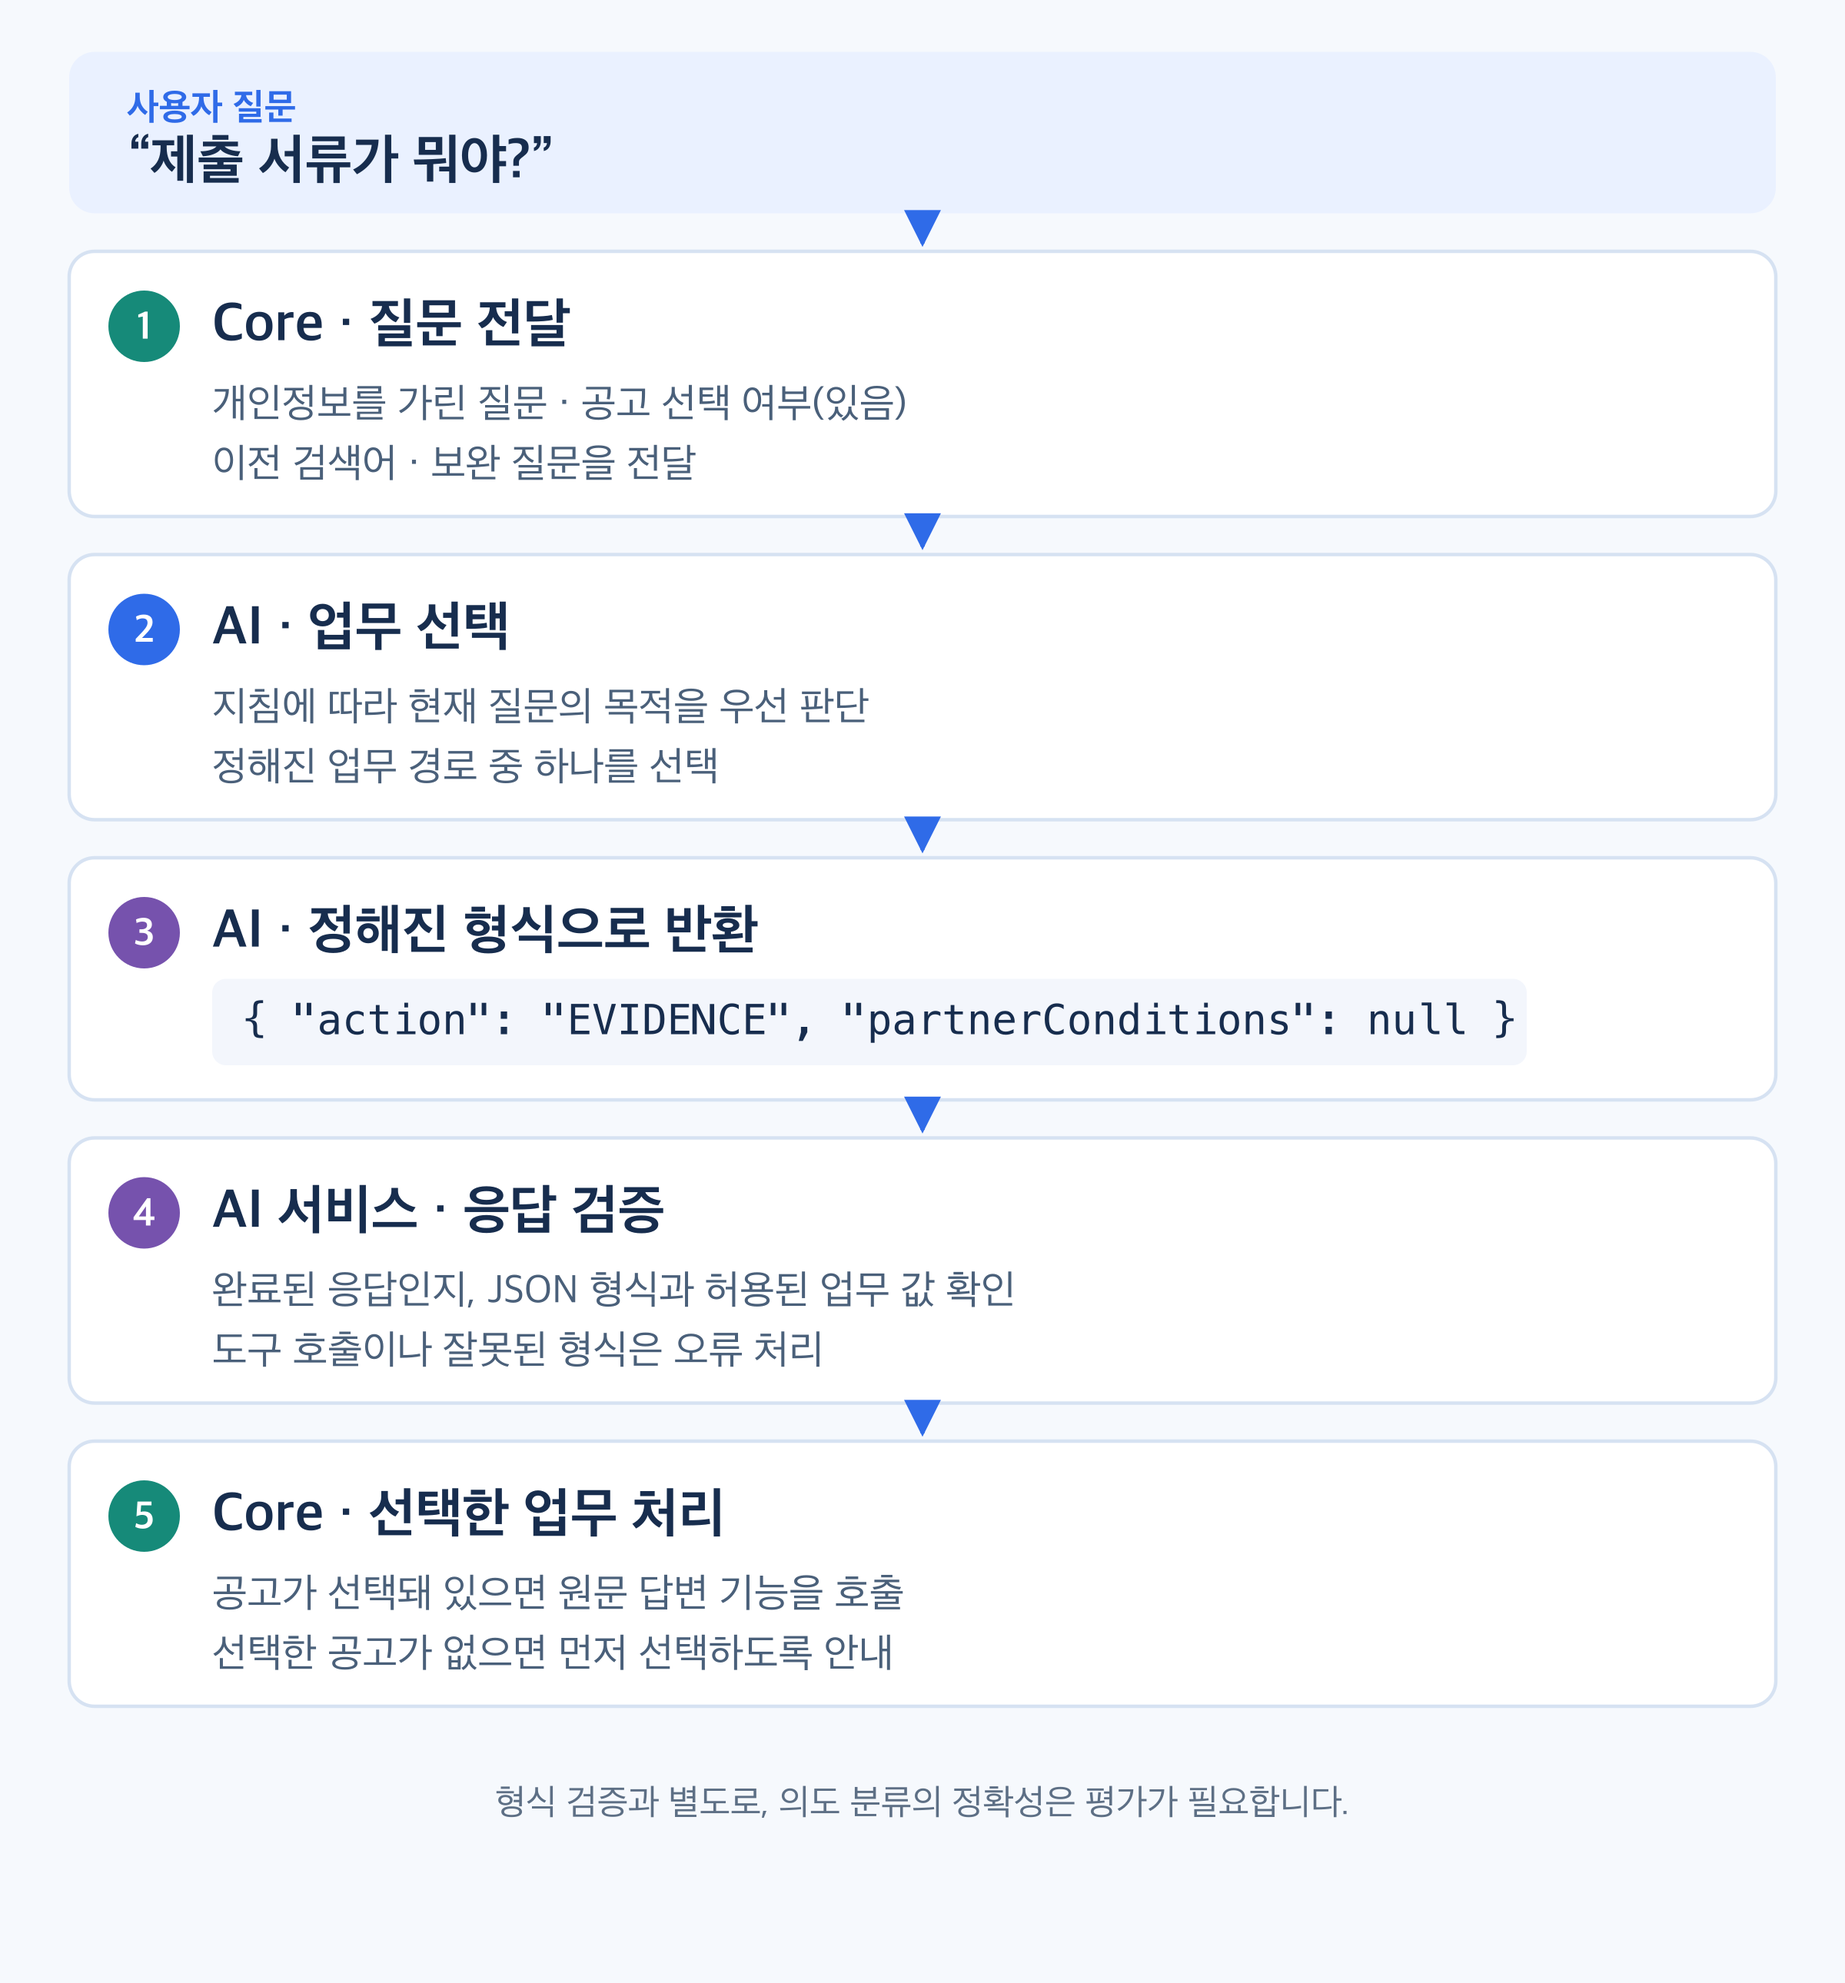
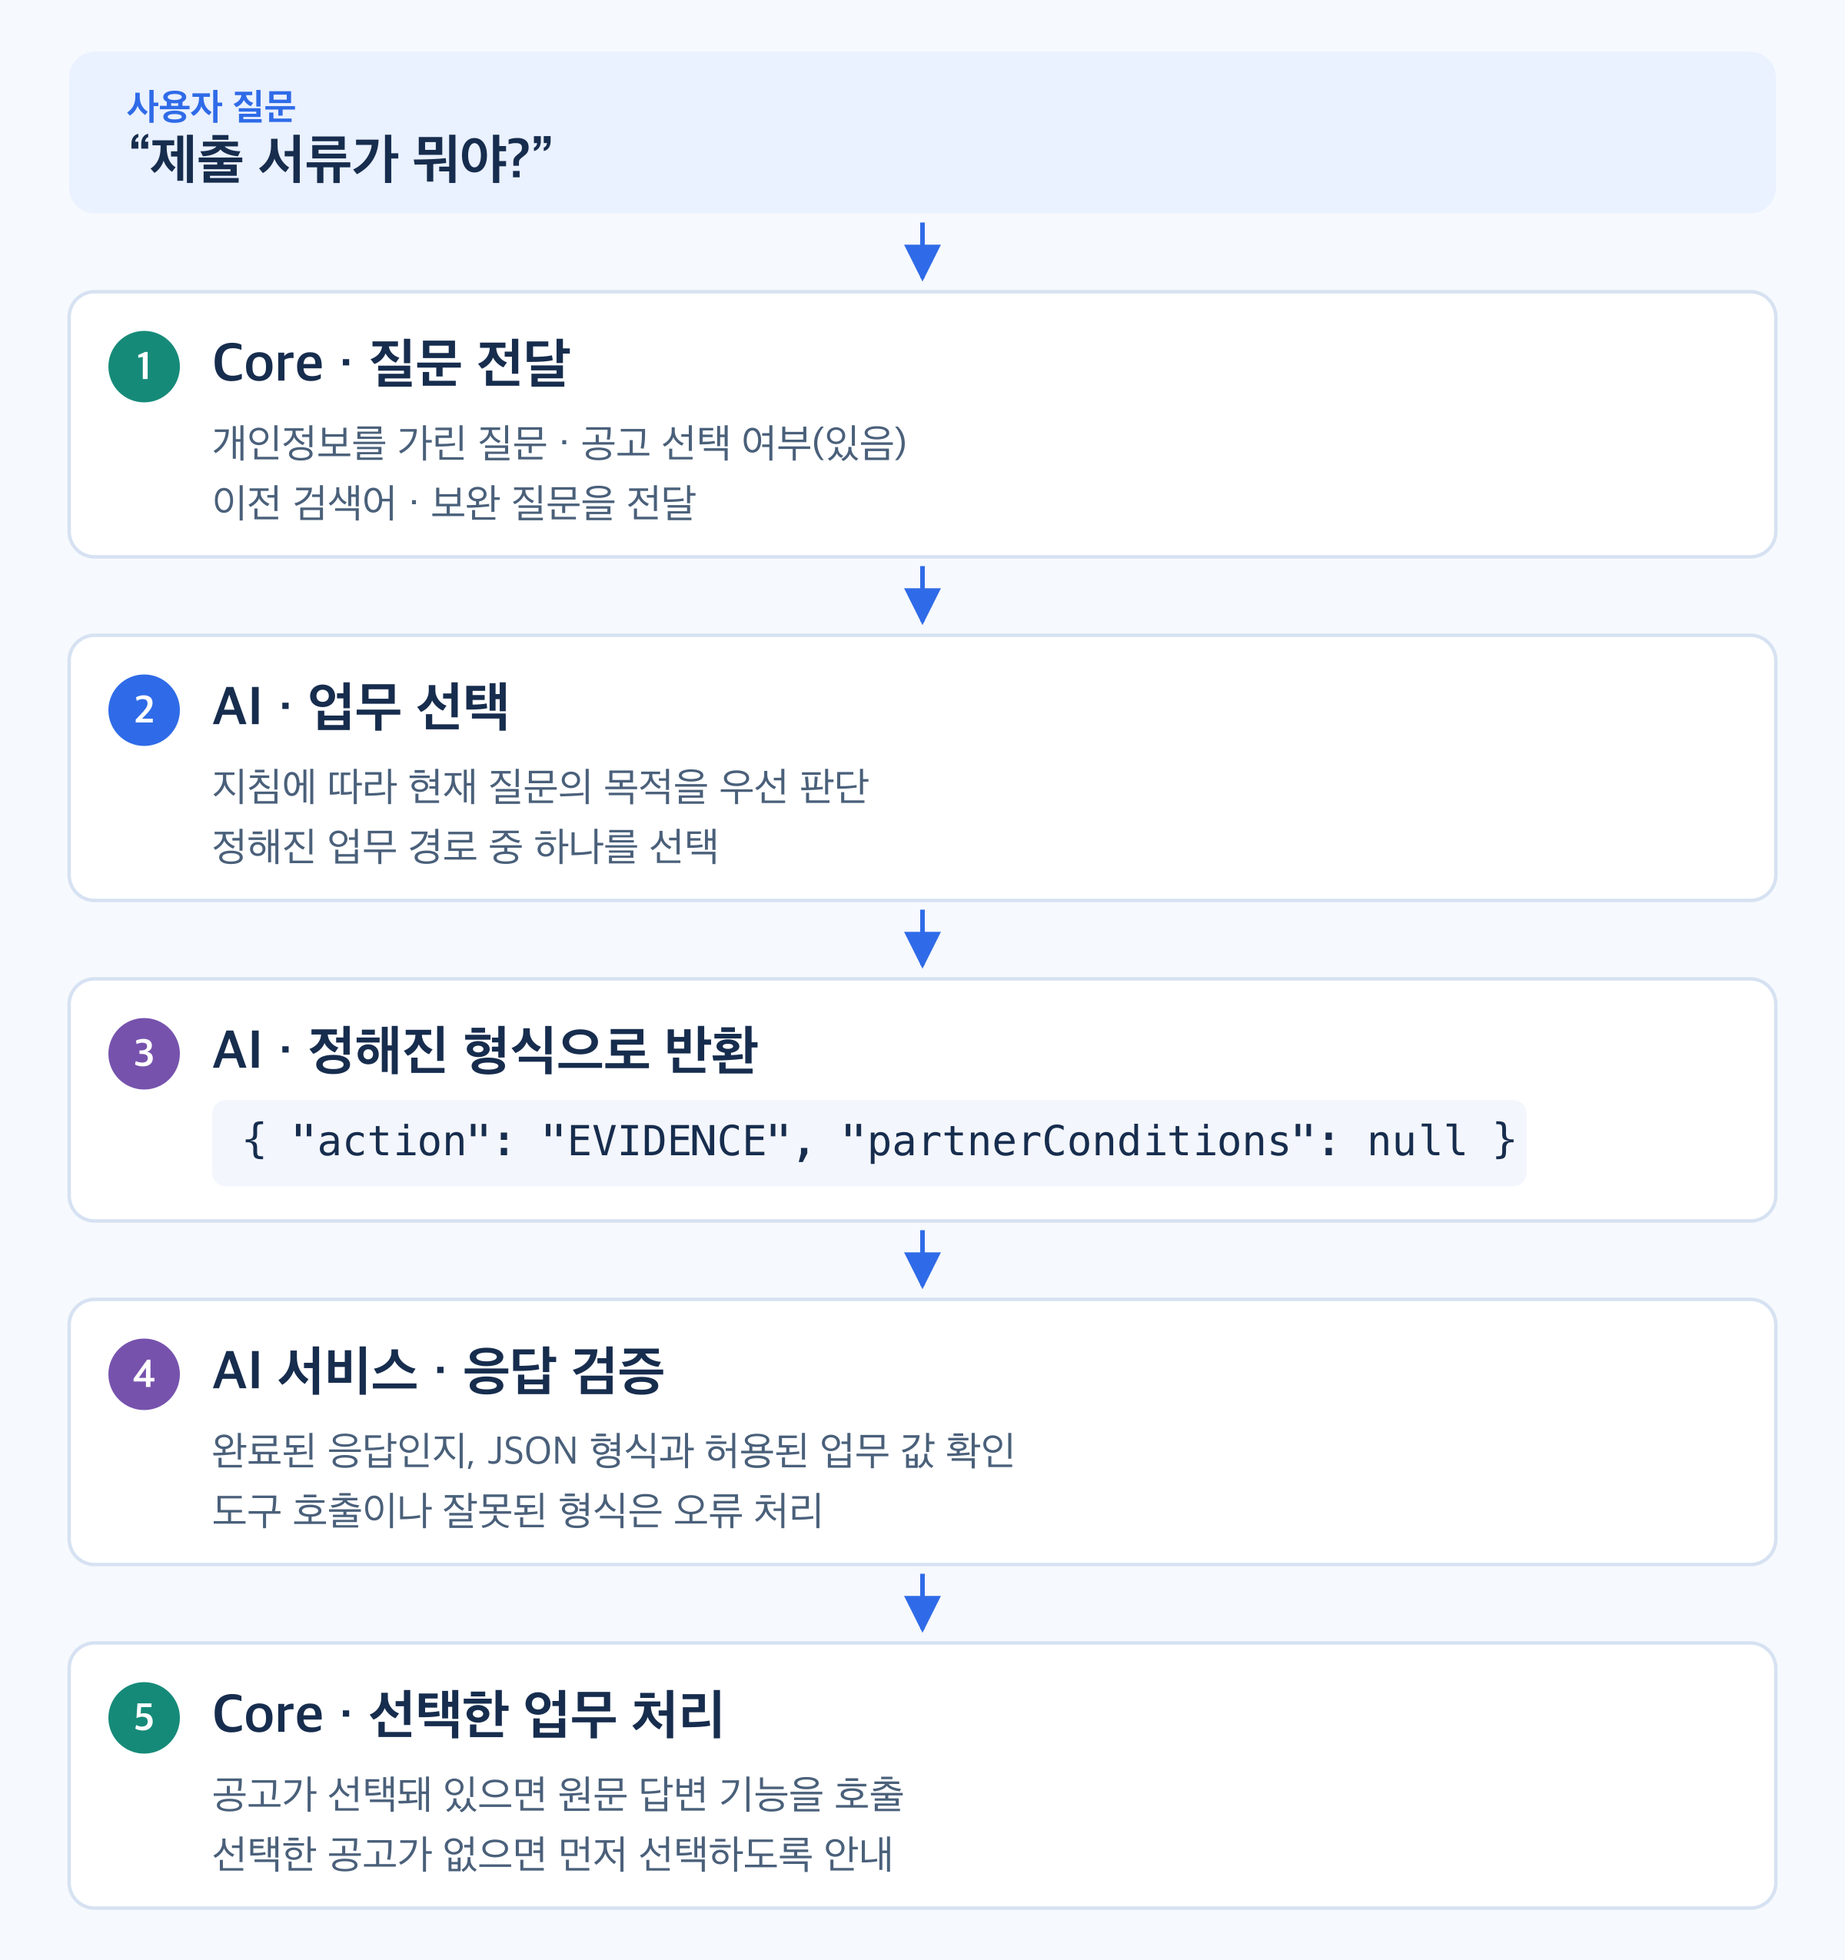
docs: AI 업무 선택 흐름도 여백과 연결선 개선

diff --git a/ai/project/skn34_4th/index.html b/ai/project/skn34_4th/index.html
@@ -197,7 +197,7 @@
 <li><b>사용자의 역할:</b> 검색 조건을 확인하고 공고를 선택하며, 신청 준비·중복 검토 등 후속 작업을 진행합니다.</li>
 </ul>
 <p><b>AI의 업무 선택과 검증</b></p>
-<figure class="diagram"><a class="zoom-image" href="./assets/govbiz-routing-control-detail.png" aria-label="AI의 업무 선택과 검증 — 크게 보기"><img src="./assets/govbiz-routing-control-detail.png" alt="질문 전달, AI 업무 선택, 구조화 응답 검증과 Core 처리 흐름" width="2400" height="2580" loading="lazy" decoding="async"></a><figcaption>이미지를 누르면 확대해서 읽을 수 있습니다.</figcaption></figure>
+<figure class="diagram"><a class="zoom-image" href="./assets/govbiz-routing-control-detail.png" aria-label="AI의 업무 선택과 검증 — 크게 보기"><img src="./assets/govbiz-routing-control-detail.png" alt="질문 전달, AI 업무 선택, 구조화 응답 검증과 Core 처리 흐름" width="2400" height="2550" loading="lazy" decoding="async"></a><figcaption>이미지를 누르면 확대해서 읽을 수 있습니다.</figcaption></figure>
 <h3 id="section-12">실제 화면: 대화에서 확인하고 작업 화면으로 이동</h3>
 <div class="columns"><div class="column"><p><b>검색 조건 확인</b></p>
 <figure class="diagram"><a class="zoom-image" href="./assets/govbiz-screen-01-condition-proposal.jpg" aria-label="검색 조건 확인 — 크게 보기"><img src="./assets/govbiz-screen-01-condition-proposal.jpg" alt="검색 조건 확인" width="800" height="882" loading="lazy" decoding="async"></a><figcaption>이미지를 누르면 확대해서 읽을 수 있습니다.</figcaption></figure>
